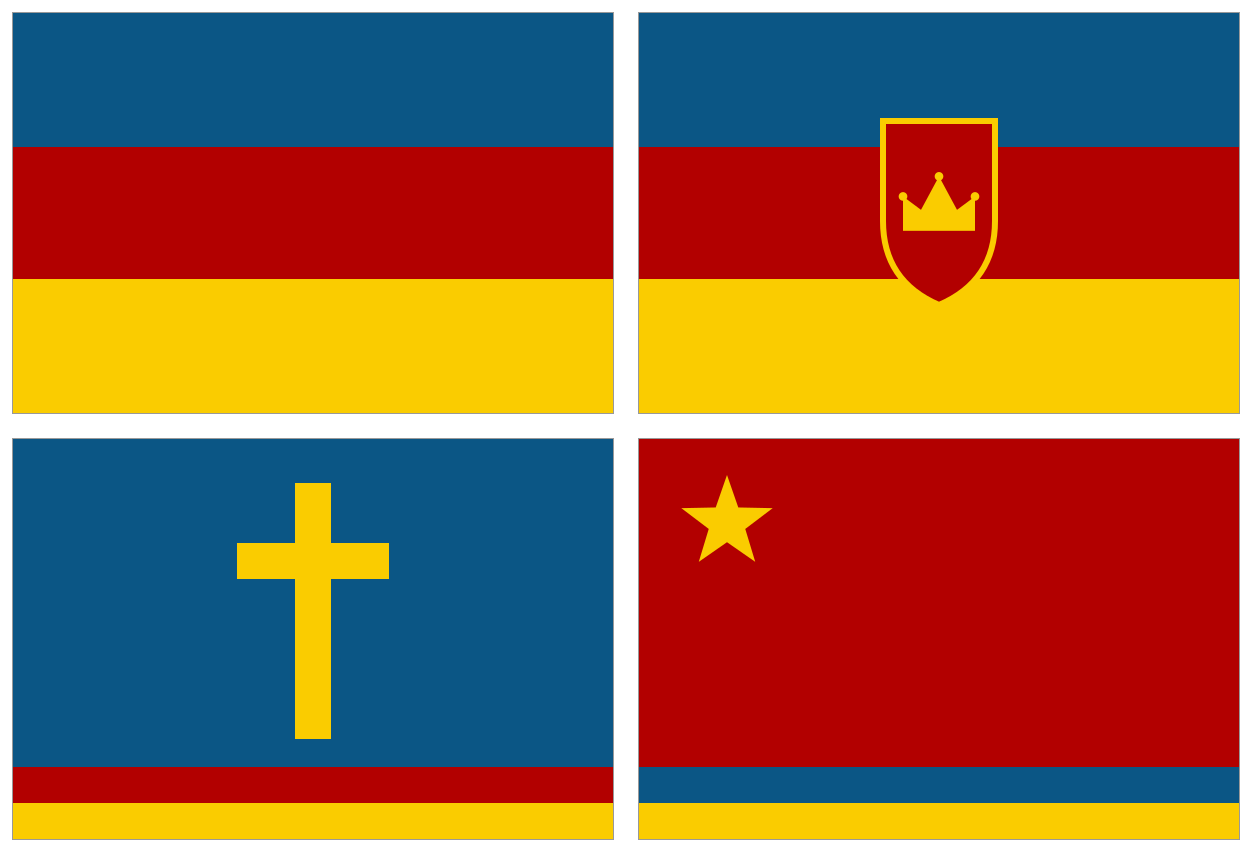
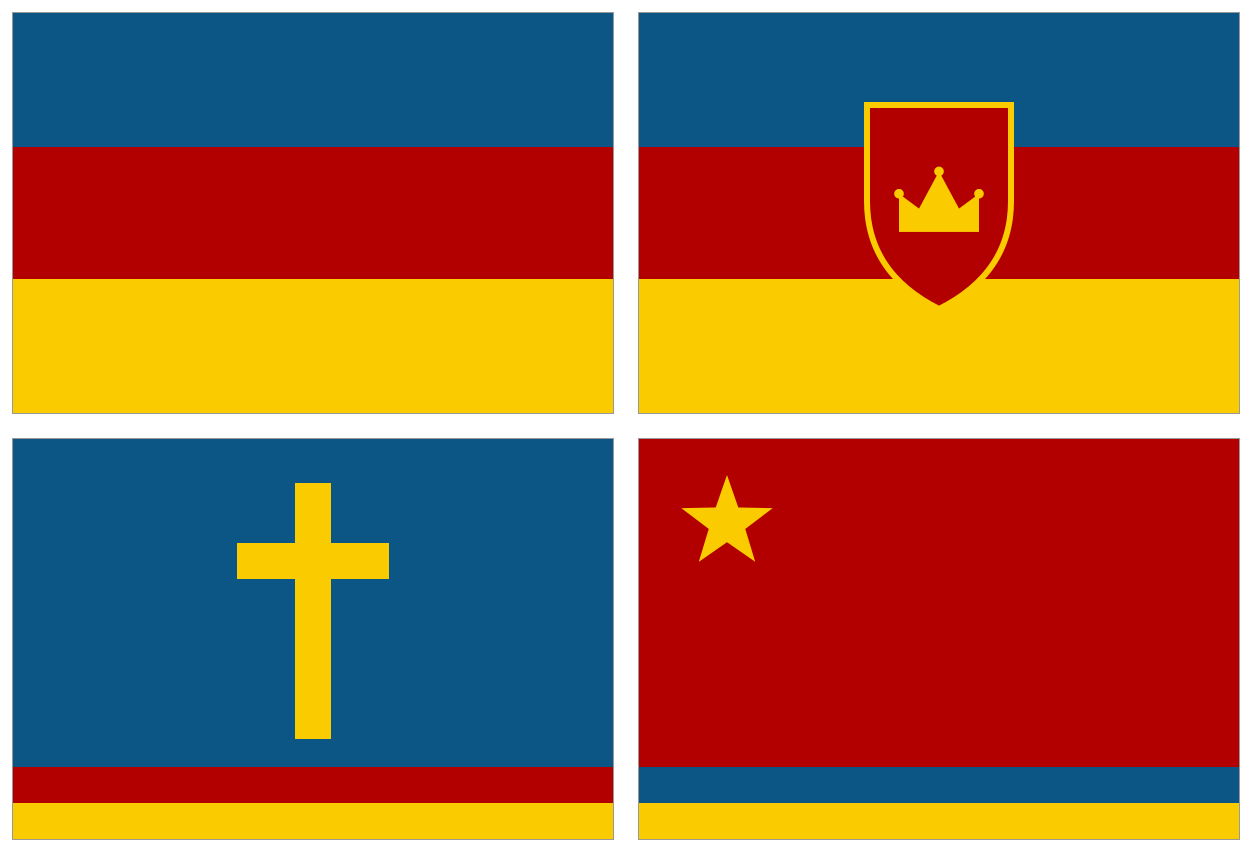
Panonia monarchia: krótsza, szersza tarcza
Claude-Session: https://claude.ai/code/session_01PNyJEgjZDVeUSFrp2WbnmN

Changed region(s): [[0.6853, 0.1221, 0.8099, 0.3357], [0.7165, 0.3357, 0.7788, 0.3662]]

diff --git a/gfx_koncepty/flagi_dacja/generuj_flagi.py b/gfx_koncepty/flagi_dacja/generuj_flagi.py
@@ -16,7 +16,7 @@ F={
  # Republika Panońska (wzór od autora moda): błękit, czerwień, żółć
  'panonia_1_republika': svg(TRI),
  # Królestwo Panonii: ta sama trójbarwa, na środku czerwona tarcza w złotej obwódce ze złotą koroną
- 'panonia_2_monarchia': svg(TRI+'<path d="M122,54 L178,54 L178,104 Q178,134 150,146 Q122,134 122,104Z" fill="#b20000" stroke="#facc00" stroke-width="3"/>'+korona(150,104,36,Y)),
+ 'panonia_2_monarchia': svg(TRI+'<path d="M114,46 L186,46 L186,94 Q186,130 150,148 Q114,130 114,94Z" fill="#b20000" stroke="#facc00" stroke-width="3"/>'+korona(150,104,40,Y)),
  # Teokracja katolicka (biskupi Timișoary, pod opieką papieża): błękit ze złotym krzyżem łacińskim, u dołu cienkie pasy czerwień i żółć
  'panonia_3_teokracja': svg(f'<rect width="300" height="200" fill="{B}"/><rect y="164" width="300" height="18" fill="{R}"/><rect y="182" width="300" height="18" fill="{Y}"/>'
                             f'<rect x="141" y="22" width="18" height="128" fill="{Y}"/><rect x="112" y="52" width="76" height="18" fill="{Y}"/>'),
